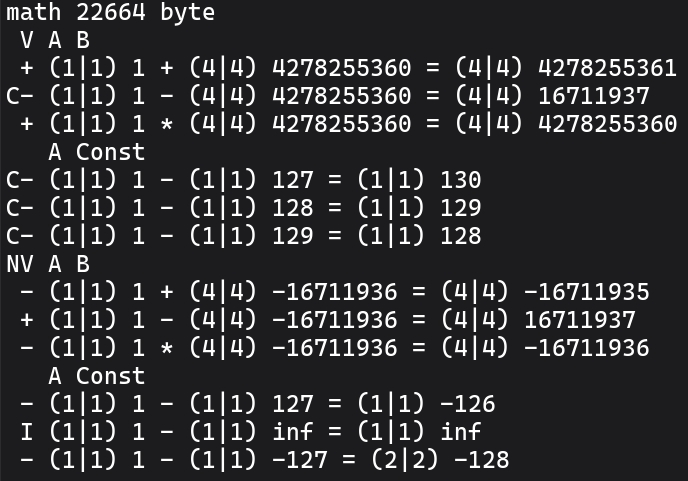
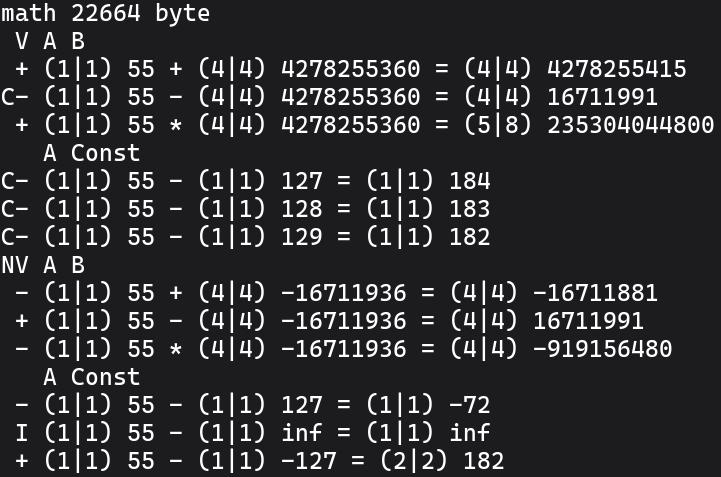
v15.2

Changed region(s): [[0.0, 0.0, 0.9462, 0.9979], [0.2747, 0.1174, 1.0, 0.2935]]

diff --git a/math.c b/math.c
@@ -30,12 +30,12 @@ anu FCOLD(anu f, anu l, an r, an a) { Mat.y = FMOV(l, r, a); Mat.t = ((Mat.x = M
 anu FVI(anu f, an r, anu l, an c) { if (l--) { if (f) { FSWAP(l, r, c); return FMOV(l, r, r); }
     else return FMOV(l, r, c); } Mat.F = 2; Mat.N = 255; *r = 128; return 0; }
 
-void FADD(an r, an a, anu l, an b) { Mat.N = l; Mat.r = r; Mat.a = a; Mat.b = b; Mat.be = Mat.b;
+void FADD(an r, an a, anu l, an b) { Mat.N = l; Mat.r = r; Mat.a = a; Mat.b = b;
   Mat.F = Mat.l; Mat.x = *(Mat.ae = Mat.a + Mat.l); Mat.na = (Mat.Nim && (Mat.x & 128)) ? 255:0;
   Mat.lb = Mat.N; Mat.y = *(Mat.e = Mat.b + Mat.N); Mat.nb = (Mat.Nim && (Mat.y & 128)) ? 255:0;
   while(*Mat.ae-- == Mat.na && Mat.F && (Mat.Nim ? !((*Mat.ae ^ Mat.na) & 128):1)) { Mat.F--; }
   while(*Mat.e-- == Mat.nb && Mat.N && (Mat.Nim ? !((*Mat.b ^ Mat.nb) & 128):1)) { Mat.N--; }
-  Mat.C = (Mat.C != 0); if (Mat.Nim) { Mat.i = Mat.F; Mat.j = Mat.N;
+  Mat.C = (Mat.C != 0); Mat.be = Mat.b; if (Mat.Nim) { Mat.i = Mat.F; Mat.j = Mat.N;
     if ((Mat.x == 128 && Mat.F == Mat.l) || (Mat.y == 128 && Mat.N == Mat.lb)) {
       while(Mat.i && !*Mat.ae--) { Mat.i--; } while(Mat.j && !*Mat.e--) { Mat.j--; }
       if (!(Mat.i && Mat.j)) { Mat.F = 2; Mat.N = 255; Mat.l = Mat.V ? 0:Mat.l; Mat.i = Mat.l;
@@ -59,12 +59,12 @@ void FADD(an r, an a, anu l, an b) { Mat.N = l; Mat.r = r; Mat.a = a; Mat.b = b;
   if (!Mat.V && Mat.l > Mat.x) { Mat.i = Mat.l - Mat.x; do *++Mat.ae = Mat.N; while(--Mat.i);
     Mat.x = Mat.l; } Mat.C |= Mat.t; Mat.l = Mat.x; }
 
-void FSUB(an r, an a, anu l, an b) { Mat.N = l; Mat.r = r; Mat.a = a; Mat.b = b; Mat.be = Mat.b;
+void FSUB(an r, an a, anu l, an b) { Mat.N = l; Mat.r = r; Mat.a = a; Mat.b = b;
   Mat.F = Mat.l; Mat.x = *(Mat.ae = Mat.a + Mat.l); Mat.na = (Mat.Nim && (Mat.x & 128)) ? 255:0;
   Mat.lb = Mat.N; Mat.y = *(Mat.e = Mat.b + Mat.N); Mat.nb = (Mat.Nim && (Mat.y & 128)) ? 255:0;
   while(*Mat.ae-- == Mat.na && Mat.F && (Mat.Nim ? !((*Mat.ae ^ Mat.na) & 128):1)) { Mat.F--; }
   while(*Mat.e-- == Mat.nb && Mat.N && (Mat.Nim ? !((*Mat.b ^ Mat.nb) & 128):1)) { Mat.N--; }
-  Mat.C = (Mat.C != 0); if (Mat.Nim) { Mat.i = Mat.F; Mat.j = Mat.N;
+  Mat.C = (Mat.C != 0); Mat.be = Mat.b; if (Mat.Nim) { Mat.i = Mat.F; Mat.j = Mat.N;
     if ((Mat.x == 128 && Mat.F == Mat.l) || (Mat.y == 128 && Mat.N == Mat.lb)) {
       while(Mat.i && !*Mat.ae--) { Mat.i--; } while(Mat.j && !*Mat.e--) { Mat.j--; }
       if (!(Mat.i && Mat.j)) { Mat.F = 2; Mat.N = 255; Mat.l = Mat.V ? 0:Mat.l; Mat.i = Mat.l;
@@ -88,53 +88,58 @@ void FSUB(an r, an a, anu l, an b) { Mat.N = l; Mat.r = r; Mat.a = a; Mat.b = b;
   if (!Mat.V && Mat.l > Mat.x) { Mat.i = Mat.l - Mat.x; do *++Mat.ae = Mat.N; while(--Mat.i);
     Mat.x = Mat.l; } Mat.N = Mat.Nim ? Mat.N:Mat.C; Mat.C |= Mat.t; Mat.l = Mat.x; }
 
-void FMUL(an r, an a, anu l, an b) { Mat.N = l; Mat.r = r; Mat.a = a; Mat.b = b; Mat.be = Mat.b;
+void FMUL(an r, an a, anu l, an b) { Mat.N = l; Mat.r = r; Mat.a = a; Mat.b = b;
   Mat.F = Mat.l; Mat.x = *(Mat.ae = Mat.a + Mat.l); Mat.na = (Mat.Nim && (Mat.x & 128)) ? 255:0;
   Mat.lb = Mat.N; Mat.y = *(Mat.e = Mat.b + Mat.N); Mat.nb = (Mat.Nim && (Mat.y & 128)) ? 255:0;
   while(*Mat.ae-- == Mat.na && Mat.F && (Mat.Nim ? !((*Mat.ae ^ Mat.na) & 128):1)) { Mat.F--; }
   while(*Mat.e-- == Mat.nb && Mat.N && (Mat.Nim ? !((*Mat.b ^ Mat.nb) & 128):1)) { Mat.N--; }
-  Mat.C = (Mat.C != 0); Mat.i = Mat.F; Mat.j = Mat.N; Mat.k = Mat.F; Mat.k += Mat.N; Mat.k++;
-  Mat.t = (!(Mat.x | Mat.F) || !(Mat.y | Mat.N)) ? 1:(Mat.i > Mat.k) ? 2:0;
+  Mat.e = (an)Mat.H; Mat.ae = (an)Mat.L; Mat.be = Mat.b; Mat.i = Mat.F; Mat.j = Mat.N;
   while(!*Mat.a && Mat.F) { Mat.a++; Mat.F--; } while(!*Mat.be && Mat.N) { Mat.be++; Mat.N--; }
-  if (Mat.Nim) { if (!Mat.t && Mat.lb == Mat.j && !Mat.N && Mat.y == 128) Mat.t = 2;
-    else if (!Mat.t && Mat.l == Mat.i && !Mat.F && Mat.x == 128) Mat.t = 2; } if (Mat.t) {
-    Mat.F = (Mat.C = !Mat.Nim) ? 1:Mat.t; Mat.N = (Mat.F == 1) ? 0:255; Mat.l = Mat.V ? 0:Mat.l;
-    Mat.i = Mat.l; while(Mat.i--) { *Mat.r++ = 0; } *Mat.r = Mat.N ? 128:0; return; }
-  Mat.l = Mat.k; Mat.i -= Mat.F; Mat.j -= Mat.N; Mat.i += Mat.j;
-  Mat.e = (an)Mat.H; Mat.ae = (an)Mat.L; if (Mat.F > Mat.N) { Mat.j = Mat.F; if (Mat.na) { Mat.t = 1;
-      do Mat.t = !(*Mat.e++ = ~*Mat.a++ + Mat.t) && Mat.t; while(Mat.j--); }
-    else { do *Mat.e++ = *Mat.a++; while(Mat.j--); } Mat.j = Mat.N;
-    if (Mat.nb) { Mat.t = 1; do Mat.t = !(*Mat.ae++ = ~*Mat.be++ + Mat.t) && Mat.t; while(Mat.j--); }
-    else do *Mat.ae++ = *Mat.be++; while(Mat.j--); }
-  else { Mat.j = Mat.N; Mat.N = Mat.F; Mat.F = Mat.j;
-    if (Mat.nb) { Mat.t = 1; do Mat.t = !(*Mat.e++ = ~*Mat.be++ + Mat.t) && Mat.t; while(Mat.j--); }
-    else { do *Mat.e++ = *Mat.be++; while(Mat.j--); } Mat.j = Mat.N;
-    if (Mat.na) { Mat.t = 1; do Mat.t = !(*Mat.ae++ = ~*Mat.a++ + Mat.t) && Mat.t; while(Mat.j--); }
-    else do *Mat.ae++ = *Mat.a++; while(Mat.j--); } *Mat.ae = 0; Mat.N++; Mat.e = Mat.r;
-  Mat.e += Mat.i; Mat.ae = Mat.r; *Mat.ae++ = Mat.C; Mat.j = Mat.l; do *Mat.ae++ = 0; while(Mat.j--);
-  Mat.ae = (an)Mat.H; do { if ((Mat.i = *Mat.ae++)) { Mat.a = (an)Mat.S; Mat.be = (an)Mat.L;
-         Mat.j = Mat.N; do *Mat.a++ = *Mat.be++; while(Mat.j--);
-         do { Mat.t = 0; Mat.be = (an)Mat.S; Mat.j = Mat.N;
-           if (!(Mat.i & 1)) { do { Mat.k = *Mat.be; *Mat.be++ = (Mat.k << 1) | Mat.t;
-               Mat.t = (Mat.k & 128) ? 1:0; } while(Mat.j--); } else { Mat.a = Mat.e; Mat.C = 0;
-               do { Mat.k = *Mat.be; Mat.x = *Mat.a; Mat.y = (*Mat.a++ = (Mat.x + Mat.k + Mat.C));
-                 Mat.C = (Mat.x > Mat.y) || (Mat.C && Mat.x == Mat.y);
-             *Mat.be++ = (Mat.k << 1) | Mat.t; Mat.t = (Mat.k & 128) ? 1:0; } while(Mat.j--); }
-         } while(Mat.i >>= 1); } Mat.e++; } while(Mat.F--); Mat.F++; Mat.N = Mat.na ^ Mat.nb;
-  Mat.ae = Mat.r + Mat.l; if (Mat.N) { Mat.j = Mat.l; Mat.e = Mat.r; Mat.t = 1;
-    do { Mat.t = !(*Mat.e = ~*Mat.e + Mat.t) && Mat.t; Mat.e++; } while(Mat.j--); }
-  while(*Mat.ae-- == Mat.N  && Mat.l && (Mat.Nim ? !((*Mat.ae ^ Mat.N) & 128):1)) { Mat.l--; }
-  if (*++Mat.ae != 128) { return; } Mat.be = Mat.ae; Mat.j = Mat.l;
-  while(Mat.j && !*--Mat.ae) { Mat.j--; } if (Mat.j) { return; }
-  if (Mat.l != 255) { Mat.l++; *++Mat.be = Mat.N; return; } Mat.F = 2; Mat.N = 255;
-  Mat.l = Mat.V ? 0:Mat.l; Mat.i = Mat.l; while(Mat.i--) { *Mat.r++ = 0; } *Mat.r = 128; }
+  if (!(Mat.t = (!(Mat.x | Mat.i) || !(Mat.y | Mat.j))) && Mat.Nim) {
+    Mat.t = (Mat.lb == Mat.j && !Mat.N && Mat.y == 128) ? 2:0;
+    Mat.t = (Mat.l == Mat.i && !Mat.F && Mat.x == 128) ? 2:Mat.t; }
+  if (Mat.F > Mat.N) { Mat.y = Mat.F;
+    if (Mat.na) { Mat.x = 1; do Mat.x = !(*Mat.e++ = ~*Mat.a++ + Mat.x) && Mat.x; while(Mat.y--); }
+    else { do *Mat.e++ = *Mat.a++; while(Mat.y--); } Mat.y = Mat.N;
+    if (Mat.nb) { Mat.x = 1; do Mat.x = !(*Mat.ae++ = ~*Mat.be++ + Mat.x) && Mat.x; while(Mat.y--); }
+    else do *Mat.ae++ = *Mat.be++; while(Mat.y--); }
+  else { Mat.y = Mat.N; Mat.N = Mat.F; Mat.F = Mat.y;
+    if (Mat.nb) { Mat.x = 1; do Mat.x = !(*Mat.e++ = ~*Mat.be++ + Mat.x) && Mat.x; while(Mat.y--); }
+    else { do *Mat.e++ = *Mat.be++; while(Mat.y--); } Mat.y = Mat.N;
+    if (Mat.na) { Mat.x = 1; do Mat.x = !(*Mat.ae++ = ~*Mat.a++ + Mat.x) && Mat.x; while(Mat.y--); }
+    else do *Mat.ae++ = *Mat.a++; while(Mat.y--); }
+  Mat.k = Mat.i; Mat.k += Mat.j; Mat.k++; Mat.t = (Mat.i > Mat.k) ? 2:Mat.t;
+  Mat.l = Mat.k; Mat.i -= Mat.F; Mat.j -= Mat.N; Mat.i += Mat.j; *Mat.ae = 0; Mat.N++;
+  Mat.e = Mat.r; Mat.e += Mat.i; Mat.ae = Mat.r; *Mat.ae++ = (Mat.C != 0);
+  Mat.j = Mat.l; do *Mat.ae++ = 0; while(Mat.j--); Mat.ae = (an)Mat.H; if (!Mat.t) {
+    do { if ((Mat.i = *Mat.ae++)) { Mat.a = (an)Mat.S; Mat.be = (an)Mat.L;
+           Mat.j = Mat.N; do *Mat.a++ = *Mat.be++; while(Mat.j--);
+           do { Mat.t = 0; Mat.be = (an)Mat.S; Mat.j = Mat.N;
+             if (!(Mat.i & 1)) { do { Mat.k = *Mat.be; *Mat.be++ = (Mat.k << 1) | Mat.t;
+                 Mat.t = (Mat.k & 128) ? 1:0; } while(Mat.j--); } else { Mat.a = Mat.e; Mat.C = 0;
+                 do { Mat.k = *Mat.be; Mat.x = *Mat.a; Mat.y = (*Mat.a++ = (Mat.x + Mat.k + Mat.C));
+                   Mat.C = (Mat.x > Mat.y) || (Mat.C && Mat.x == Mat.y);
+               *Mat.be++ = (Mat.k << 1) | Mat.t; Mat.t = (Mat.k & 128) ? 1:0; } while(Mat.j--); }
+           } while(Mat.i >>= 1); } Mat.e++; } while(Mat.F--); Mat.F++; Mat.N = Mat.na ^ Mat.nb;
+    Mat.ae = Mat.r + Mat.l; if (Mat.N) { Mat.j = Mat.l; Mat.e = Mat.r; Mat.t = 1;
+      do { Mat.t = !(*Mat.e = ~*Mat.e + Mat.t) && Mat.t; Mat.e++; } while(Mat.j--); }
+    while(*Mat.ae-- == Mat.N  && Mat.l && (Mat.Nim ? !((*Mat.ae ^ Mat.N) & 128):1)) { Mat.l--; }
+    if (*++Mat.ae != 128) { return; } Mat.be = Mat.ae; Mat.j = Mat.l;
+    while(Mat.j && !*--Mat.ae) { Mat.j--; } if (Mat.j) { return; }
+    if (Mat.l != 255) { Mat.l++; *++Mat.be = Mat.N; return; } Mat.t = 2; }
+  Mat.F = (Mat.C = !Mat.Nim) ? 1:Mat.t; Mat.N = (Mat.F == 1) ? 0:255; Mat.l = Mat.V ? 0:Mat.l;
+  Mat.i = Mat.l; while(Mat.i--) { *Mat.r++ = 0; } *Mat.r = Mat.N ? 128:0; return; }
 
 void FDIV(an r, an e, an a, anu l, an b) { Mat.N = l; Mat.r = r; Mat.a = a; Mat.b = b;
   Mat.F = Mat.l; Mat.x = *(Mat.ae = Mat.a + Mat.l); Mat.na = (Mat.Nim && (Mat.x & 128)) ? 255:0;
   Mat.lb = Mat.N; Mat.y = *(Mat.e = Mat.b + Mat.N); Mat.nb = (Mat.Nim && (Mat.y & 128)) ? 255:0;
   while(*Mat.ae-- == Mat.na && Mat.F && (Mat.Nim ? !((*Mat.ae ^ Mat.na) & 128):1)) { Mat.F--; }
   while(*Mat.e-- == Mat.nb && Mat.N && (Mat.Nim ? !((*Mat.b ^ Mat.nb) & 128):1)) { Mat.N--; }
-  Mat.be = Mat.b; Mat.C = (Mat.C != 0);
+  Mat.e = (an)Mat.H; Mat.ae = (an)Mat.L; Mat.be = Mat.b; Mat.i = Mat.F; Mat.j = Mat.N;
+  while(!*Mat.a && Mat.F) { Mat.a++; Mat.F--; } while(!*Mat.be && Mat.N) { Mat.be++; Mat.N--; }
+  if (!(Mat.t = (!(Mat.x | Mat.i) || !(Mat.y | Mat.j))) && Mat.Nim) {
+    Mat.t = (Mat.lb == Mat.j && !Mat.N && Mat.y == 128) ? 2:0;
+    Mat.t = (Mat.l == Mat.i && !Mat.F && Mat.x == 128) ? 2:Mat.t; }
   (void)e; }
 
 void FADDc(an r, an a, anu l, an c) { if (l--) { FADD(r, a, l, c); return; } Mat.l = FMOV(Mat.l, r, a); }

diff --git a/main.c b/main.c
@@ -28,5 +28,5 @@ void Const(void) { an sb; anu l, i = 2; printf("   A Const\n"); Show('c'); sb = 
 void Test(void) { printf("%c%c A B\n", Mat.Nim ? 'N':' ', Mat.V ? 'V':' '); Show('+'); Show('-'); Show('*'); /*Show('/');*/Const(); }
 
 int main(void) { anu v = 1,a[m],b[m],e[m],r[m+m]; Faddr((As)r, (As)e, (As)a, (As)b);
-  Fini(0,v); la = Fbvi(Mat.A, 1); lb = Fvi(Mat.B, 0,255,0,255); Test();
+  Fini(0,v); la = Fbvi(Mat.A, 55); lb = Fvi(Mat.B, 0,255,0,255); Test();
   Fset(1,v); la = Fmov(la, Mat.A); lb = Fmov(lb, Mat.B); Test(); return 0; }

diff --git a/README.md b/README.md
@@ -17,7 +17,7 @@
 P.s.: Блокировку убрали как только добавил сообщение о ней на главную страницу, длилась минут 20 как я заметил и принял меры чтоб сообщить об этом Вам. Это сообщение останется (20.09.2026 ~16.00 по местному +7) как память, так, что буду стараться вопреки не востребованности в России по данной области дабы остальной народ мог этим воспользоваться. Проанализируйте события с момента как я вернулся в эту сферу (конец января 2026 выложен Products готовый полностью затем занялся Fresh в начале февраля 2026), всё это время обновлялся код и было забавно видеть на open.net новости - даже компании серьёзные их как озарило - так, что у меня нет желания и времени следить за соблюдением GPLv3 из России, если заметите нарушение лицензии, то гарантировано взаимовыгодное сотрудничество.
 
 <div align="center">
-  <h1>Результат запуска v14.4</h1>
+  <h1>Результат запуска v15.2</h1>
   
   <picture>
     <source media="(prefers-color-scheme: dark)" srcset="Plus/psb.jpeg">
